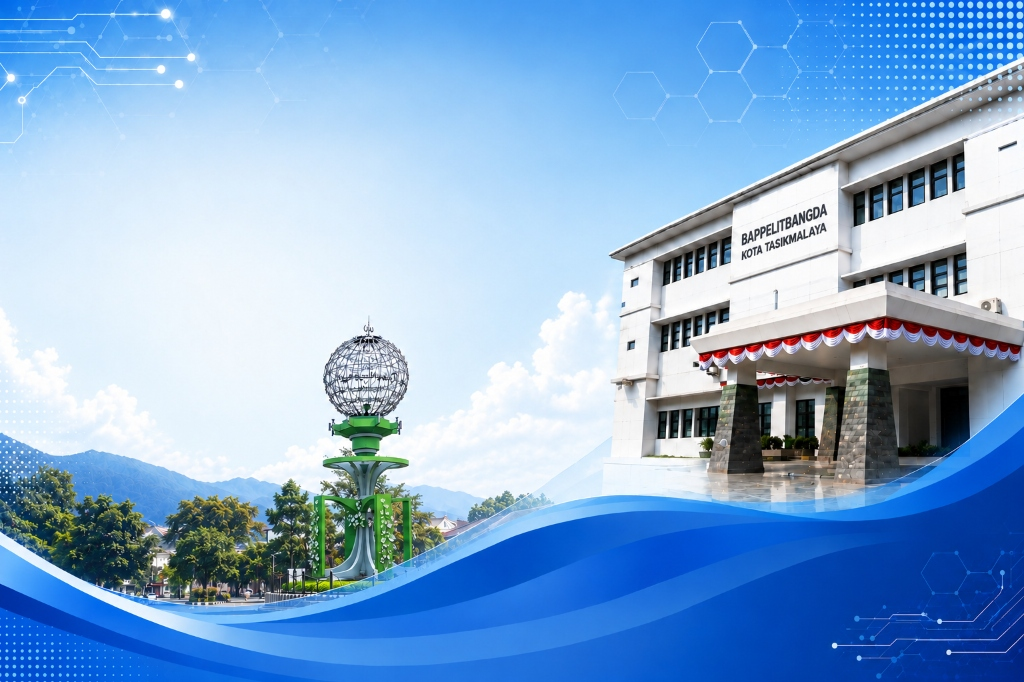
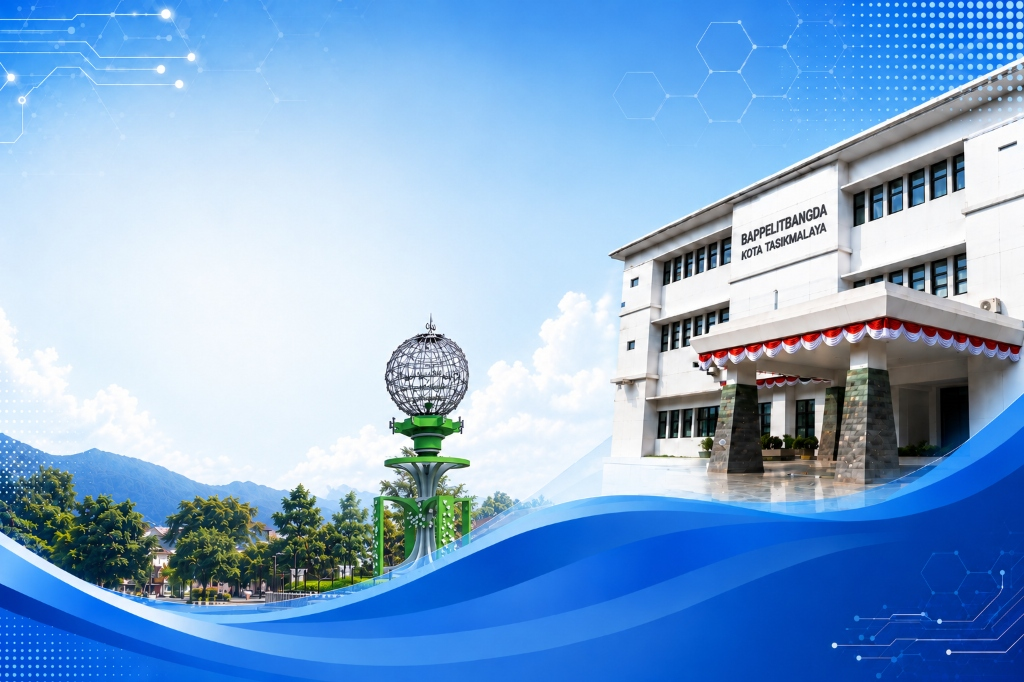
feat(hero): perbarui background hero dengan file gambar terbaru dan tambahkan cache-busting v=20261030

diff --git a/resources/views/user/welcome.blade.php b/resources/views/user/welcome.blade.php
@@ -26,7 +26,7 @@
     <link rel="dns-prefetch" href="https://cdn.tailwindcss.com">
 
     <!-- Preload Critical LCP Hero Image (Gambar Baru Gedung Bappelitbangda) -->
-    <link rel="preload" as="image" href="{{ asset('images/hero-bg-bappelitbangda.jpg') }}?v=1" fetchpriority="high">
+    <link rel="preload" as="image" href="{{ asset('images/hero-bg-bappelitbangda.jpg') }}?v=20261030" fetchpriority="high">
 
     <!-- Tailwind CSS -->
     <script src="https://cdn.tailwindcss.com"></script>
@@ -64,14 +64,14 @@
         }
 
         .bg-hero {
-            background-image: url("{{ asset('images/hero-bg-bappelitbangda.jpg') }}?v=1");
+            background-image: url("{{ asset('images/hero-bg-bappelitbangda.jpg') }}?v=20261030");
             background-size: cover;
             background-position: center right;
         }
 
         @media (max-width: 767px) {
             .bg-hero {
-                background-position: 95% 10%;
+                background-position: 80% center;
             }
         }
 
